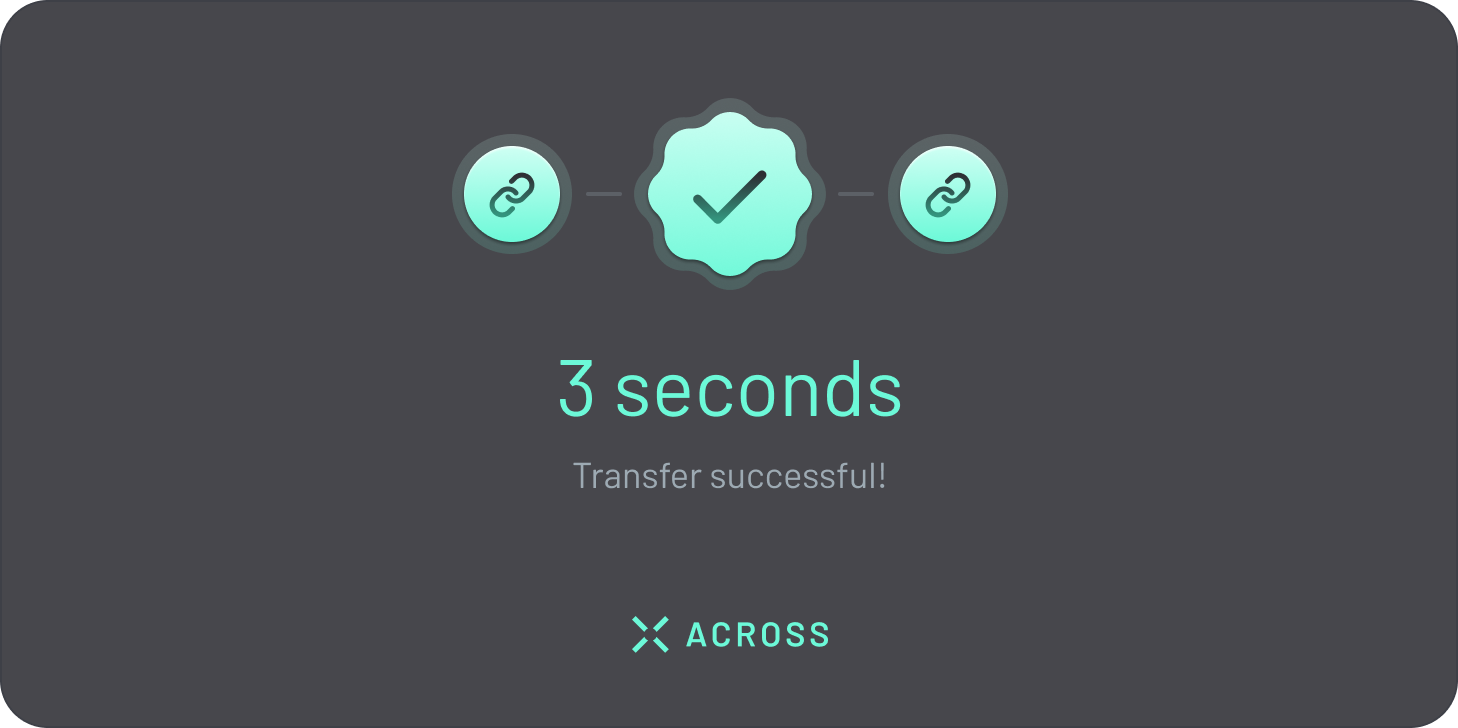
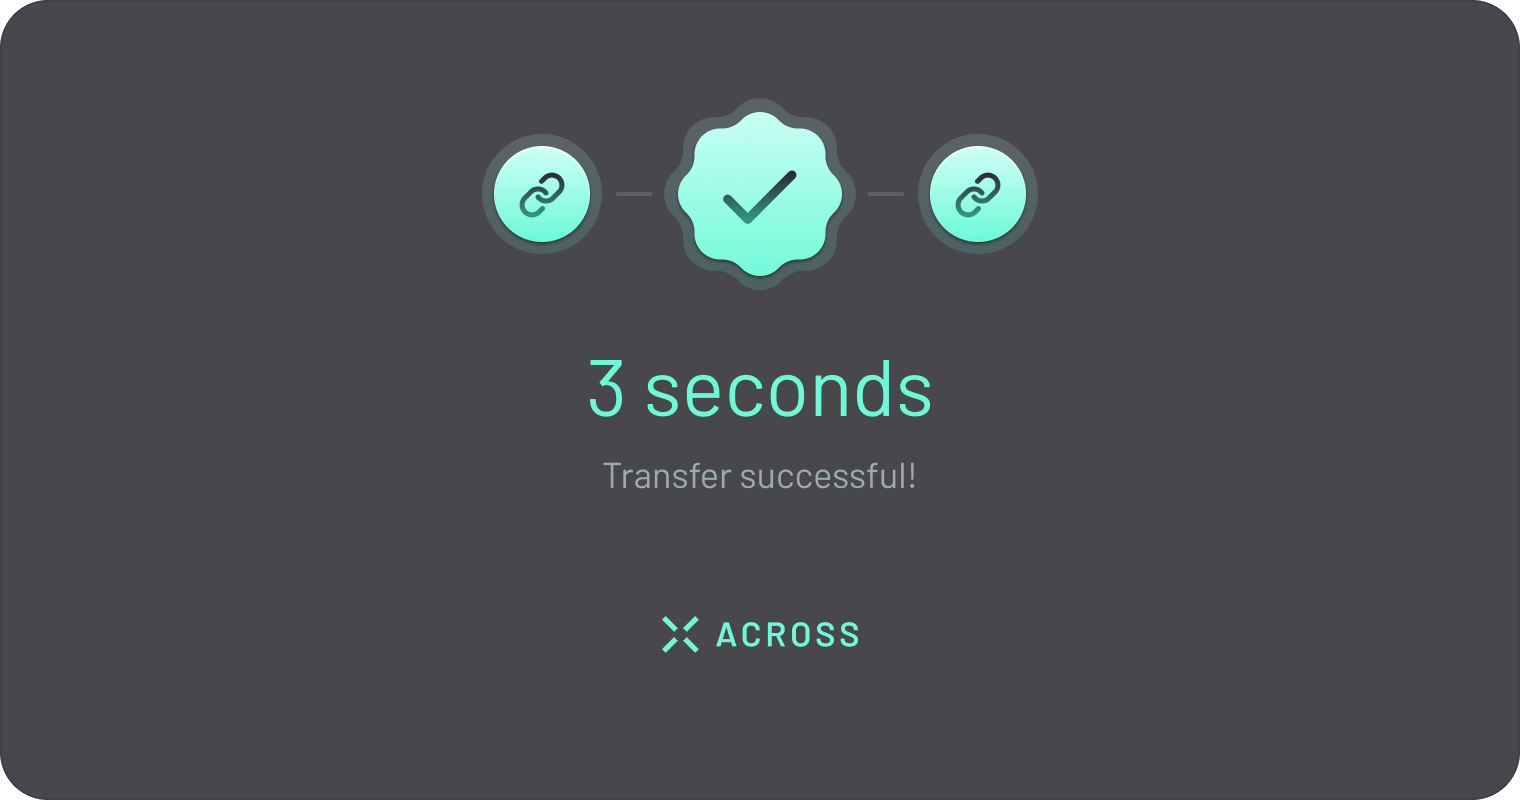
fix aspect ratio

diff --git a/api/twitter-share/image.ts b/api/twitter-share/image.ts
@@ -23,17 +23,23 @@ const TwitterShareParamsSchema = type({
 
 type TwitterShareImageParams = Infer<typeof TwitterShareParamsSchema>;
 
-// Twitter recommends 2:1 aspect ratio with minimum 300x157, maximum 4096x4096
+// Twitter recommends 1.9:1 aspect ratio with minimum 300x157, maximum 4096x4096
 // Must be under 5MB limit
 // https://developer.x.com/en/docs/x-for-websites/cards/overview/summary-card-with-large-image
 export const CANVAS = {
-  width: 800,
+  width: 760,
   height: 400,
 };
 
-const chainLogoDimensions = 48; // px
+const chainLogoBaseDimension = 48; // px
 const px = 20; // px 32
 const py = 20; // px 24
+const xScalingFactor = (CANVAS.width - px * 2) / CANVAS.width;
+const yScalingFactor = (CANVAS.height - py * 2) / CANVAS.height;
+const chainLogoDimensions = {
+  x: Math.floor(chainLogoBaseDimension * xScalingFactor),
+  y: Math.floor(chainLogoBaseDimension * yScalingFactor),
+};
 
 export default async function handler(
   request: TypedVercelRequest<TwitterShareImageParams>,
@@ -91,19 +97,19 @@ export default async function handler(
       if (originChainLogo) {
         ctx.drawImage(
           originChainLogo,
-          263,
-          92,
-          chainLogoDimensions,
-          chainLogoDimensions
+          254,
+          86,
+          chainLogoDimensions.x,
+          chainLogoDimensions.y
         );
       }
       if (destinationChainLogo) {
         ctx.drawImage(
           destinationChainLogo,
-          490,
-          92,
-          chainLogoDimensions,
-          chainLogoDimensions
+          461,
+          86,
+          chainLogoDimensions.x,
+          chainLogoDimensions.y
         );
       }
     } else {
@@ -113,19 +119,19 @@ export default async function handler(
       if (originChainLogo) {
         ctx.drawImage(
           originChainLogo,
-          257,
-          82,
-          chainLogoDimensions,
-          chainLogoDimensions
+          248,
+          77,
+          chainLogoDimensions.x,
+          chainLogoDimensions.y
         );
       }
       if (destinationChainLogo) {
         ctx.drawImage(
           destinationChainLogo,
-          497,
-          82,
-          chainLogoDimensions,
-          chainLogoDimensions
+          467,
+          77,
+          chainLogoDimensions.x,
+          chainLogoDimensions.y
         );
       }
     }
